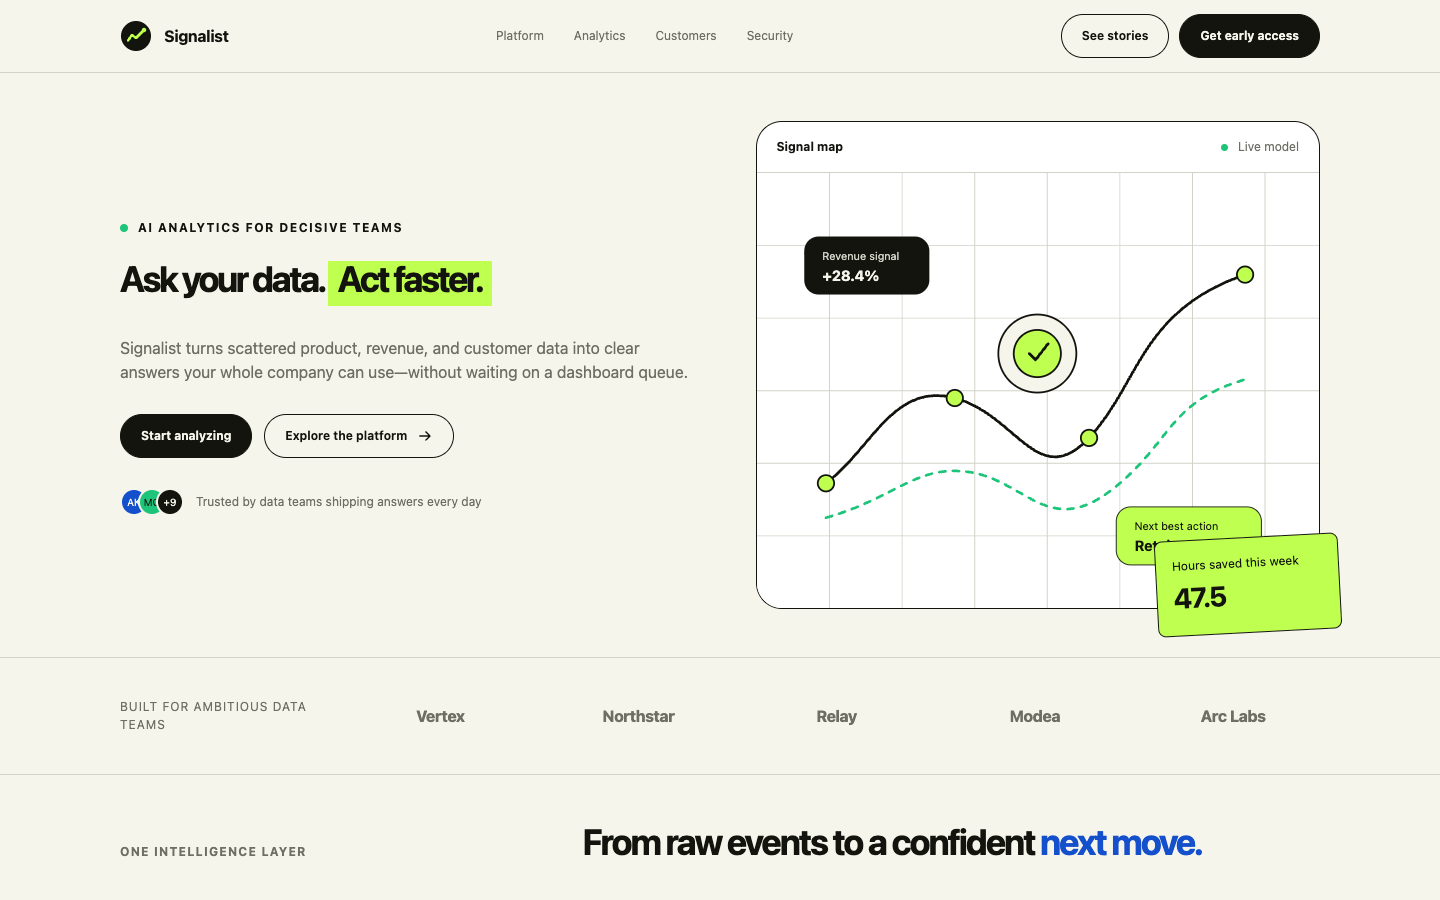
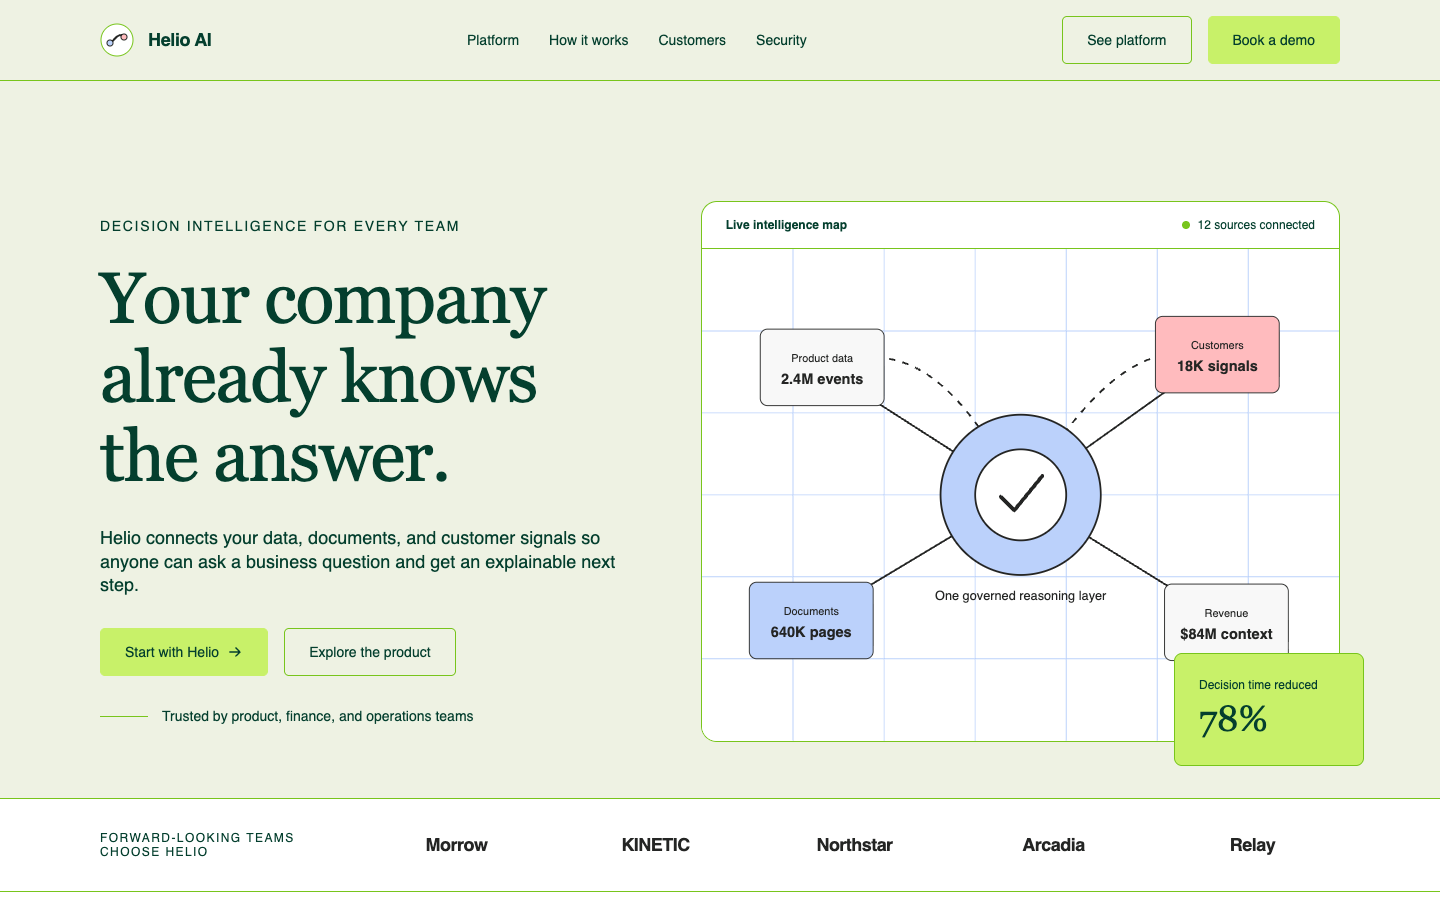
readme: lead with the best generated page
The generated-landing screenshot is now the Helio AI page built against
the Modern Business Intelligence capture: serif display type, sage and
lime palette, the intelligence-map hero. Show the strongest output,
not the first one.

Claude-Session: https://claude.ai/code/session_01Taj8iUi3wk8Z2MaVyyGoGx

diff --git a/README.md b/README.md
@@ -64,7 +64,7 @@ The wiki BlockSmith builds from a captured or written design system:
 
 ![The design system wiki](docs/assets/wiki.png)
 
-A landing page an agent generated against a captured system (perk.com), checked and corrected by governance:
+A landing page an agent generated against a captured design system, checked and corrected by governance. Every color, face, and radius on it comes from the captured tokens:
 
 ![A generated landing page](docs/assets/generated-landing.png)
 
